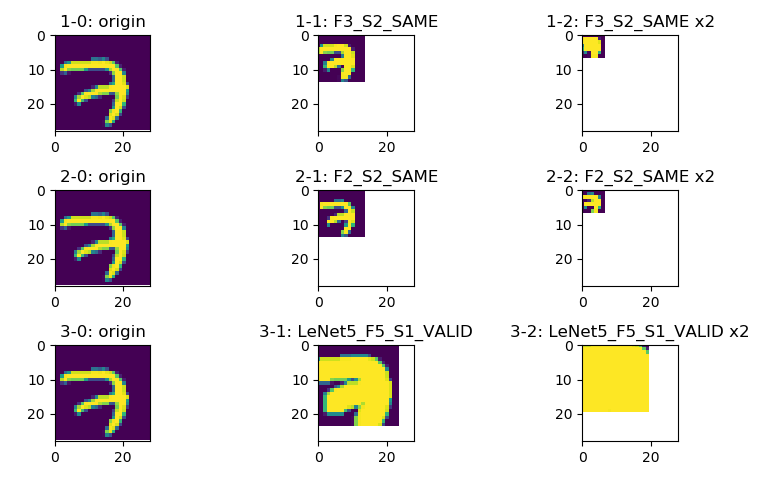
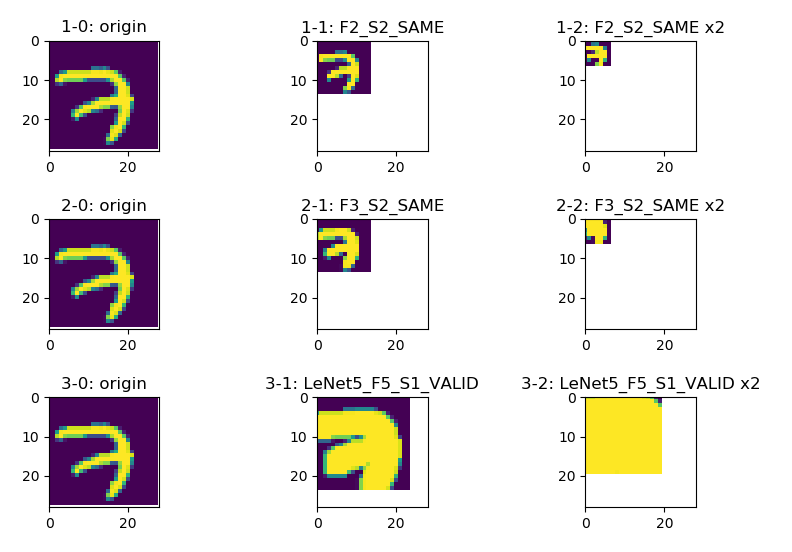
change display effects

diff --git a/cnn/parameters/max_pool/max_pool_parameters.py b/cnn/parameters/max_pool/max_pool_parameters.py
@@ -127,29 +127,29 @@ def main():
     print images.shape
 
     settings_ = defaultdict(list)
-    settings_['1-1: F3_S2_SAME'].append(
+    settings_['1-1: F2_S2_SAME'].append({'ksize':[1, 2, 2, 1], 
+                                    'strides':[1, 2, 2, 1],
+                                    'padding':'SAME'})
+
+    settings_['1-2: F2_S2_SAME x2'].append({'ksize':[1, 2, 2, 1], 
+                                    'strides':[1, 2, 2, 1],
+                                    'padding':'SAME'})
+
+    settings_['1-2: F2_S2_SAME x2'].append({'ksize':[1, 2, 2, 1], 
+                                    'strides':[1, 2, 2, 1],
+                                    'padding':'SAME'})
+
+    settings_['2-1: F3_S2_SAME'].append(
                                     {'ksize':[1, 3, 3, 1], 
                                     'strides':[1, 2, 2, 1],
                                     'padding':'SAME'})
 
-    settings_['1-2: F3_S2_SAME x2'].append(
+    settings_['2-2: F3_S2_SAME x2'].append(
                                     {'ksize':[1, 3, 3, 1], 
                                     'strides':[1, 2, 2, 1],
                                     'padding':'SAME'})
-    settings_['1-2: F3_S2_SAME x2'].append(
+    settings_['2-2: F3_S2_SAME x2'].append(
                                     {'ksize':[1, 3, 3, 1], 
-                                    'strides':[1, 2, 2, 1],
-                                    'padding':'SAME'})
-
-    settings_['2-1: F2_S2_SAME'].append({'ksize':[1, 2, 2, 1], 
-                                    'strides':[1, 2, 2, 1],
-                                    'padding':'SAME'})
-
-    settings_['2-2: F2_S2_SAME x2'].append({'ksize':[1, 2, 2, 1], 
-                                    'strides':[1, 2, 2, 1],
-                                    'padding':'SAME'})
-
-    settings_['2-2: F2_S2_SAME x2'].append({'ksize':[1, 2, 2, 1], 
                                     'strides':[1, 2, 2, 1],
                                     'padding':'SAME'})
 

diff --git a/cnn/parameters/max_pool/README.md b/cnn/parameters/max_pool/README.md
@@ -1,24 +1,25 @@
-# Training Speed of SGD, Momentum, Nesterov SGD, RMSprop, and Adam
+# Max Pooling Parameters
 
-This work is inspired by [Alec Radford](https://twitter.com/AlecRad/media). His first [work](https://www.reddit.com/r/MachineLearning/comments/2gopfa/visualizing_gradient_optimization_techniques/cklhott/) was posted on Reddits on 2014. However, there is no Adam algorithm which was published on 2015. As a result, I I implemented this animation. 
+Comparison between 3 different parameters as shown below:
 
-Animation effects are referenced from
-  * [Louis Tiao's work](http://tiao.io/notes/visualizing-and-animating-optimization-algorithms-with-matplotlib/)
-### My reproduced work
-![N|Solid](https://github.com/Brandon-HY-Lin/neural_networks_for_machine_learning/blob/master/week_06/momentum_methods/saddle_animation_3d.gif?raw=true)
+ * Non-Overlapping
+    F2_S2_SAME: Filter Size = 2x2, stride=2x2, padding=SAME
 
-### Alec Radford's work
-![N|Solid](https://github.com/Brandon-HY-Lin/neural_networks_for_machine_learning/blob/master/week_06/momentum_methods/alec_radford_animation.gif?raw=true)
+ * Overlapping 
+    F3_S2_SAME: Filter Size = 3x3, stride=2x2, padding=SAME
+
+ * Overlapping with big filter (LeNet5 setting)
+    LeNet5_F5_S1_VALID: Filter Size = 5x5, stride=1x1, padding=VALID
+
+![N|Solid](https://github.com/Brandon-HY-Lin/deep_learning_comparision/blob/master/cnn/parameters/max_pool/conv_twice.png?raw=true)
+
+The first column is original MNIST image (digit 7). The 2nd column is image after max_pool filter. The 3rd column is image after 2 sucessive max_pool filters.
+
+The non-overlapping setting preserved more details. Moreever, when the filters increase, the image becomes more blur.
 
 ### Execution
 ```sh
-$ python saddle_class.py
-```
-
-### Saving GIF Animation
-Simply set variable IS_SAVE to True in the python file
-```python
-IS_SAVE=True
+$ python max_pool_parameters.py
 ```
 
 ### License
